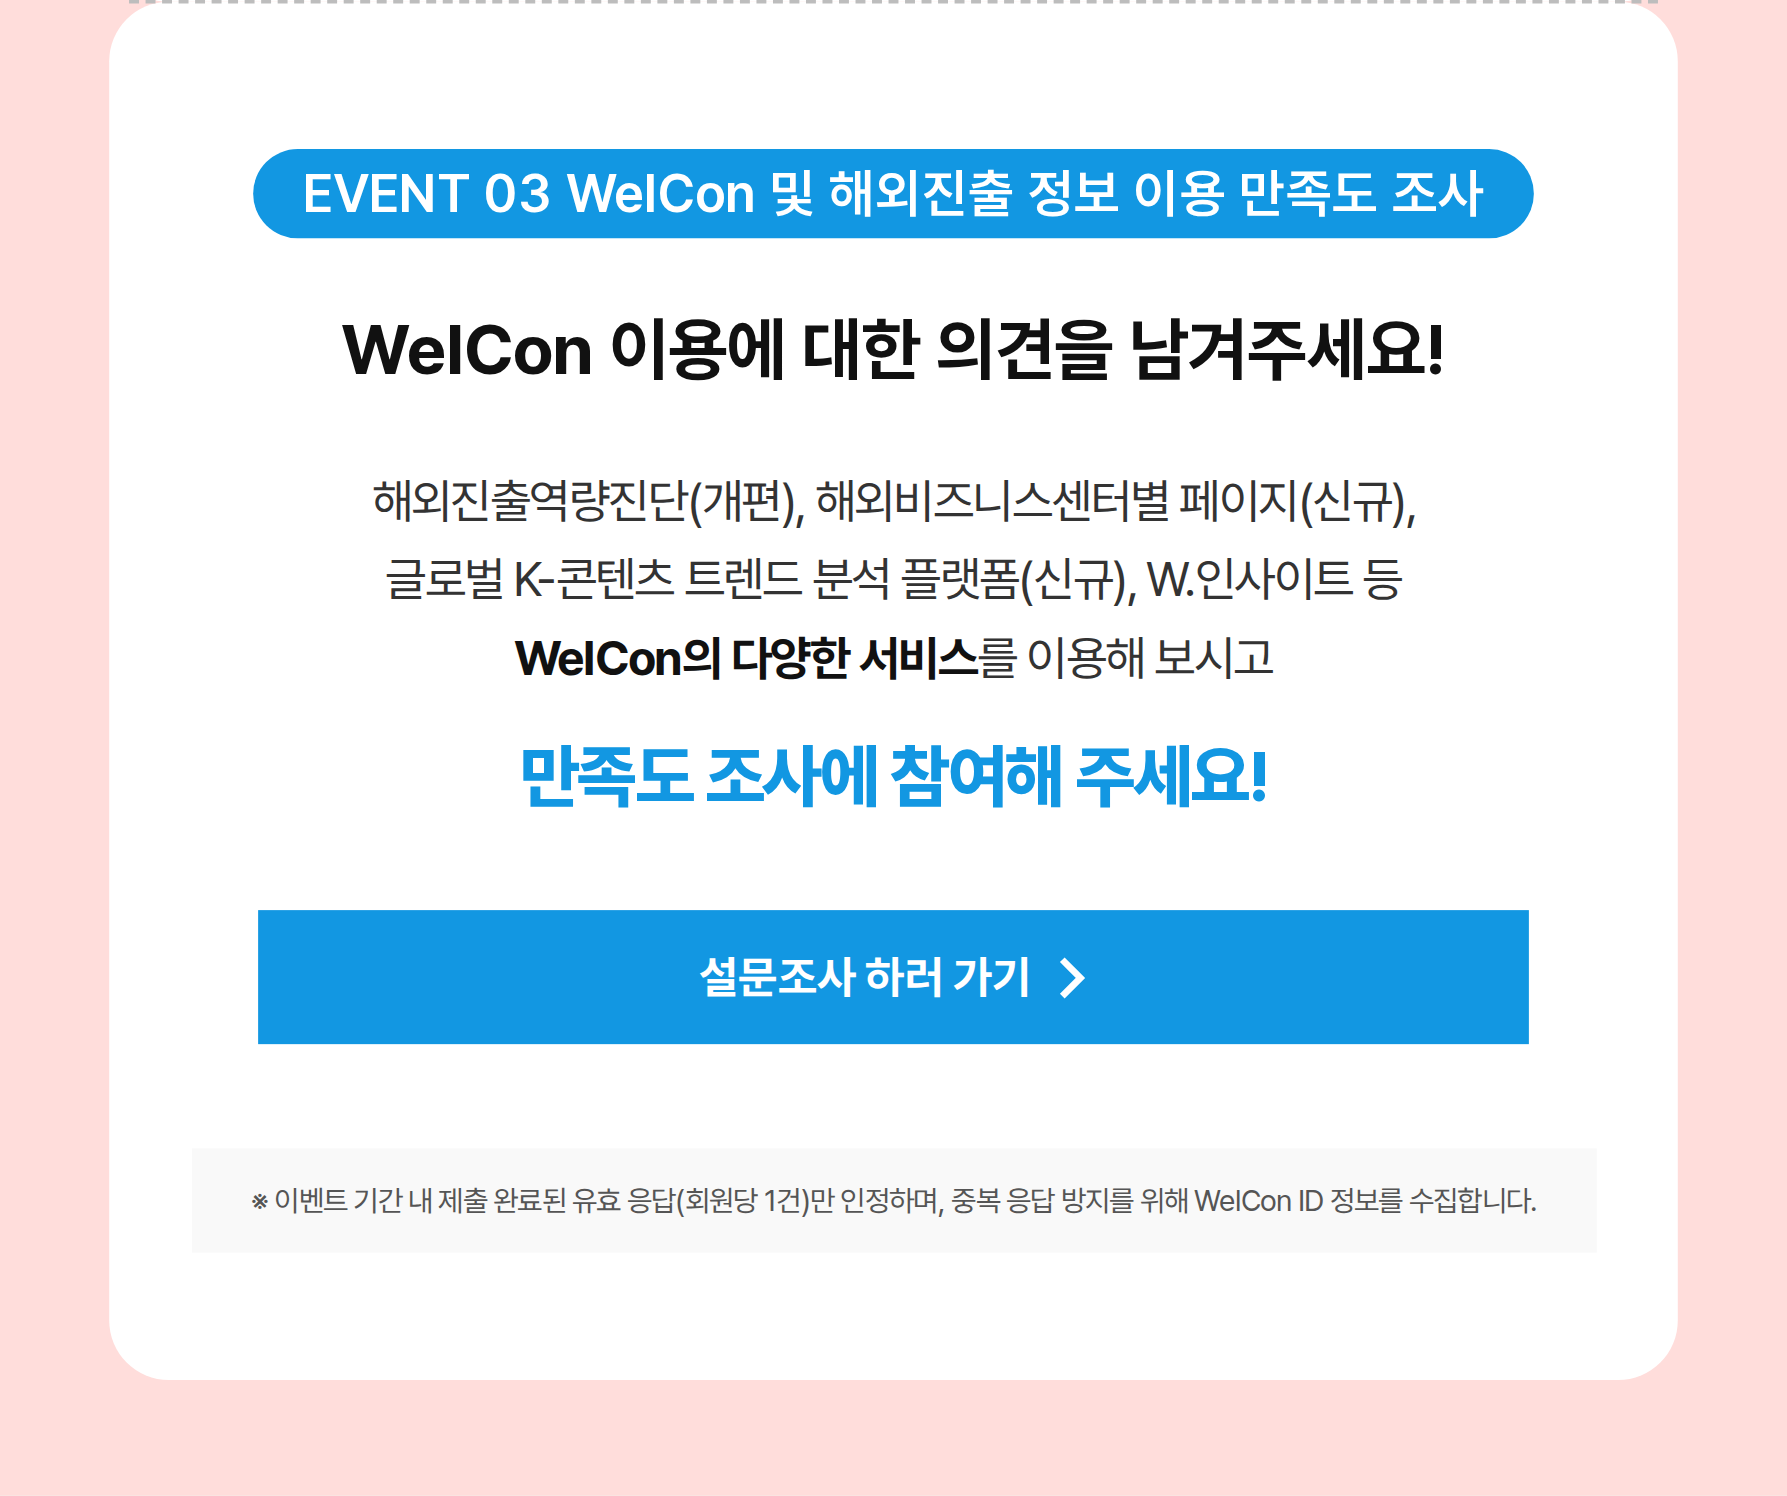
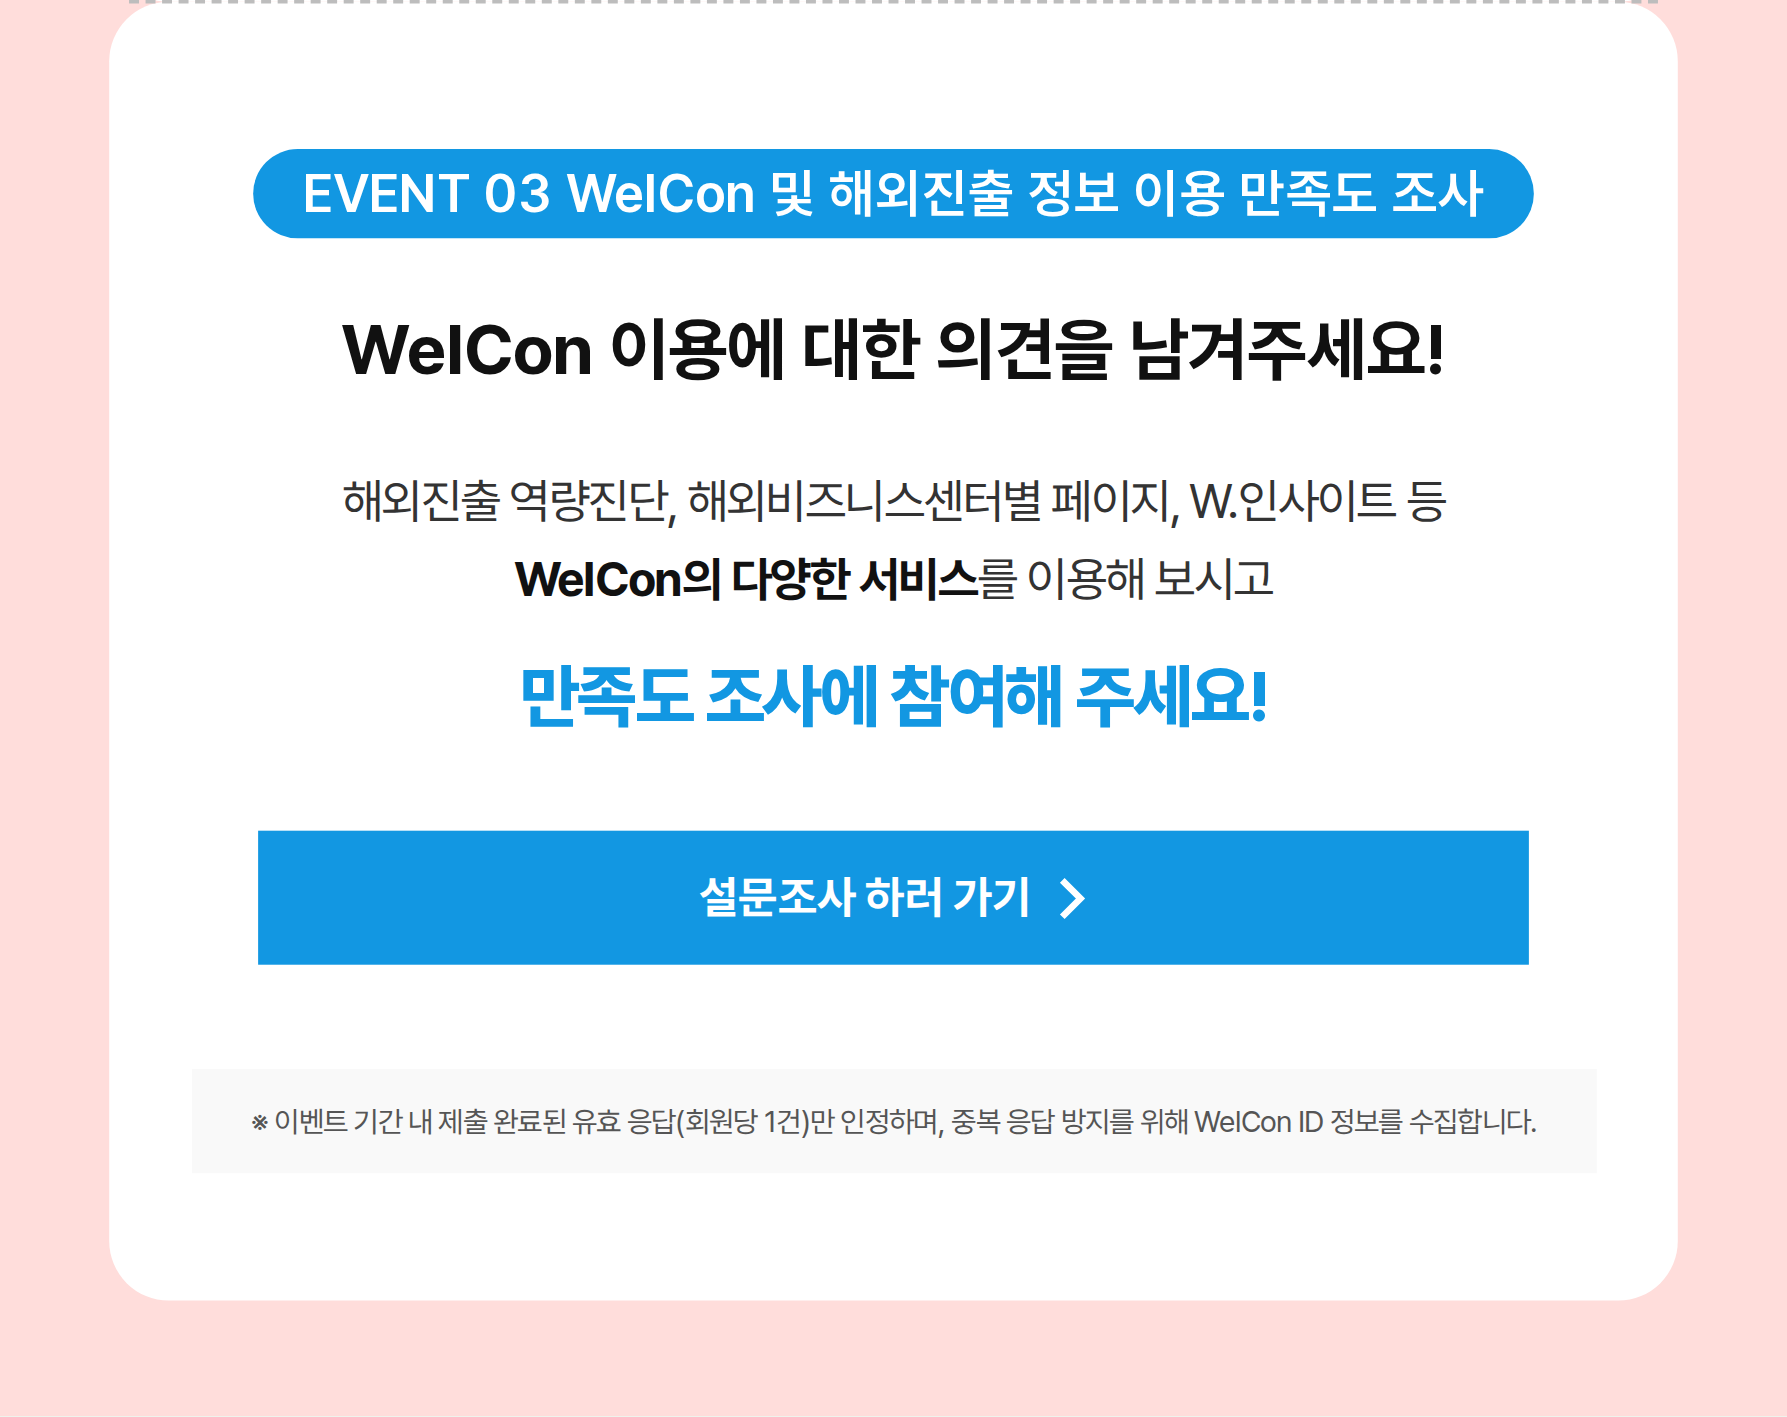
fix: EVENT 03 서비스 문구·경품 탭 폭 수정본 반영

diff --git a/ko/index.html b/ko/index.html
@@ -13,7 +13,7 @@
     <a href="https://naver.me/5ECKmnhF" target="_blank" title="새창" style="display:block;"><img src="ko_03.png" alt="EVENT 02 회원정보 업데이트 / WelCon 회원정보를 최신 상태로 업데이트해주세요! / 기업회원 정보 업데이트: WelCon 로그인 > 마이페이지 > 기본정보관리, 기업정보·기업현황정보·콘텐츠정보 중 1가지 이상 업데이트, 선착순 100명 1만원 상당 경품 / 개인회원 정보 업데이트: WelCon 로그인 > 마이페이지 > 내 관심정보, 관심키워드·알리미 설정·관심정보 중 1가지 이상 업데이트, 선착순 100명 1만원 상당 경품" style="width:100%; max-width:800px; height:auto; display:block; border:0;" /></a>
   </td></tr>
   <tr style="padding:0; margin:0;"><td style="padding:0; margin:0; font-size:0 !important; line-height:0;">
-    <a href="https://naver.me/5DZ0lAan" target="_blank" title="새창" style="display:block;"><img src="ko_04.png" alt="EVENT 03 WelCon 및 해외진출 정보 이용 만족도 조사 / WelCon 이용에 대한 의견을 남겨주세요! / 해외진출역량진단(개편), 해외비즈니스센터별 페이지(신규), 글로벌 K-콘텐츠 트렌드 분석 플랫폼(신규), W.인사이트 등 WelCon의 다양한 서비스를 이용해 보시고 만족도 조사에 참여해 주세요! / 설문조사 하러 가기" style="width:100%; max-width:800px; height:auto; display:block; border:0;" /></a>
+    <a href="https://naver.me/5DZ0lAan" target="_blank" title="새창" style="display:block;"><img src="ko_04.png" alt="EVENT 03 WelCon 및 해외진출 정보 이용 만족도 조사 / WelCon 이용에 대한 의견을 남겨주세요! / 해외진출 역량진단, 해외비즈니스센터별 페이지, W.인사이트 등 WelCon의 다양한 서비스를 이용해 보시고 만족도 조사에 참여해 주세요! / 설문조사 하러 가기" style="width:100%; max-width:800px; height:auto; display:block; border:0;" /></a>
   </td></tr>
   <tr style="padding:0; margin:0;"><td style="padding:0; margin:0; font-size:0 !important; line-height:0;">
     <img src="ko_05.png" alt="이벤트 경품 / EVENT 01 국립중앙박물관 단청 키보드 15만원 상당 우수사례 10건 선정 / EVENT 02 기업회원·개인회원 기프트카드 1만원권 선착순 각 100명 / EVENT 03 커피 쿠폰 선착순 500명 / 유의사항: EVENT 01, 02, 03은 중복 참여 가능합니다. 모든 이벤트는 이벤트 기간(11.25~12.04) 내에 참여한 경우에만 인정됩니다. EVENT 01 당첨자는 제출하신 연락처로 개별 안내 예정이며, 경품은 이벤트 종료 후 순차 지급 예정입니다. 선착순 경품(EVENT 02·03)은 참여 완료 순서로 지급하며, 수량 소진 시 조기 마감될 수 있습니다. 경품은 제품 출고 시기에 따라 지급일이 늦어질 수 있습니다." style="width:100%; max-width:800px; height:auto; display:block; border:0;" />

diff --git a/ko/newsletter_ko.html b/ko/newsletter_ko.html
@@ -10,7 +10,7 @@
     <a href="https://naver.me/5ECKmnhF" target="_blank" title="새창" style="display:block;"><img src="ko_03.png" alt="EVENT 02 회원정보 업데이트 / WelCon 회원정보를 최신 상태로 업데이트해주세요! / 기업회원 정보 업데이트: WelCon 로그인 > 마이페이지 > 기본정보관리, 기업정보·기업현황정보·콘텐츠정보 중 1가지 이상 업데이트, 선착순 100명 1만원 상당 경품 / 개인회원 정보 업데이트: WelCon 로그인 > 마이페이지 > 내 관심정보, 관심키워드·알리미 설정·관심정보 중 1가지 이상 업데이트, 선착순 100명 1만원 상당 경품" style="width:100%; max-width:800px; height:auto; display:block; border:0;" /></a>
   </td></tr>
   <tr style="padding:0; margin:0;"><td style="padding:0; margin:0; font-size:0 !important; line-height:0;">
-    <a href="https://naver.me/5DZ0lAan" target="_blank" title="새창" style="display:block;"><img src="ko_04.png" alt="EVENT 03 WelCon 및 해외진출 정보 이용 만족도 조사 / WelCon 이용에 대한 의견을 남겨주세요! / 해외진출역량진단(개편), 해외비즈니스센터별 페이지(신규), 글로벌 K-콘텐츠 트렌드 분석 플랫폼(신규), W.인사이트 등 WelCon의 다양한 서비스를 이용해 보시고 만족도 조사에 참여해 주세요! / 설문조사 하러 가기" style="width:100%; max-width:800px; height:auto; display:block; border:0;" /></a>
+    <a href="https://naver.me/5DZ0lAan" target="_blank" title="새창" style="display:block;"><img src="ko_04.png" alt="EVENT 03 WelCon 및 해외진출 정보 이용 만족도 조사 / WelCon 이용에 대한 의견을 남겨주세요! / 해외진출 역량진단, 해외비즈니스센터별 페이지, W.인사이트 등 WelCon의 다양한 서비스를 이용해 보시고 만족도 조사에 참여해 주세요! / 설문조사 하러 가기" style="width:100%; max-width:800px; height:auto; display:block; border:0;" /></a>
   </td></tr>
   <tr style="padding:0; margin:0;"><td style="padding:0; margin:0; font-size:0 !important; line-height:0;">
     <img src="ko_05.png" alt="이벤트 경품 / EVENT 01 국립중앙박물관 단청 키보드 15만원 상당 우수사례 10건 선정 / EVENT 02 기업회원·개인회원 기프트카드 1만원권 선착순 각 100명 / EVENT 03 커피 쿠폰 선착순 500명 / 유의사항: EVENT 01, 02, 03은 중복 참여 가능합니다. 모든 이벤트는 이벤트 기간(11.25~12.04) 내에 참여한 경우에만 인정됩니다. EVENT 01 당첨자는 제출하신 연락처로 개별 안내 예정이며, 경품은 이벤트 종료 후 순차 지급 예정입니다. 선착순 경품(EVENT 02·03)은 참여 완료 순서로 지급하며, 수량 소진 시 조기 마감될 수 있습니다. 경품은 제품 출고 시기에 따라 지급일이 늦어질 수 있습니다." style="width:100%; max-width:800px; height:auto; display:block; border:0;" />
